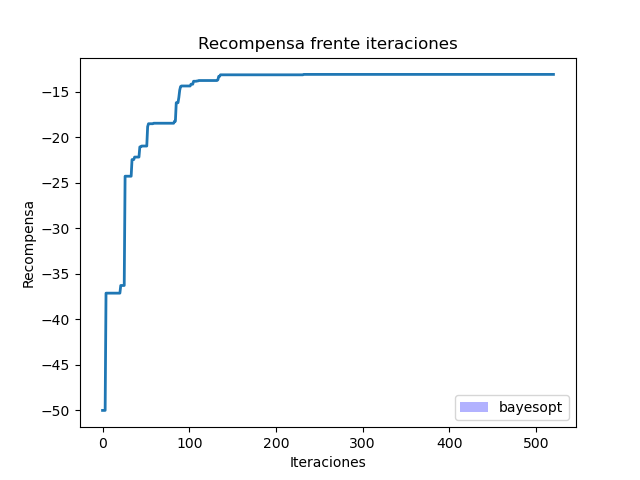
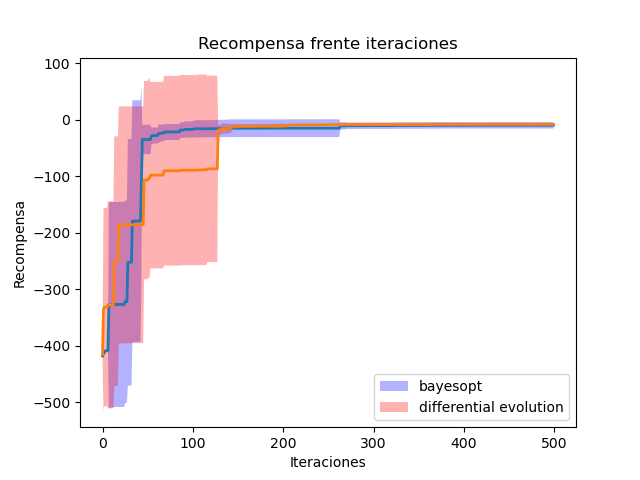
Grafica para la optimizacion de la tarea de pick and place con dos contenedores.

diff --git a/print_graph.py b/print_graph.py
@@ -11,11 +11,11 @@ VARIATION = "2container"
 file1 = TASK_DIR + "listas_bayesopt_" + TASK_NAME + "_" + VARIATION + ".p"
 resultados1 = pickle.load(open(file1, "rb"))
 
-# file2 = TASK_DIR + "listas_difevol_" + TASK_NAME + "_" + VARIATION + ".p"
-# resultados2 = pickle.load(open(file2, "rb"))
+file2 = TASK_DIR + "listas_difevol_" + TASK_NAME + "_" + VARIATION + ".p"
+resultados2 = pickle.load(open(file2, "rb"))
 
-# lista_de_resultados = [resultados1, resultados2]
-lista_de_resultados = [resultados1]
+lista_de_resultados = [resultados1, resultados2]
+# lista_de_resultados = [resultados1]
 color = ['b', 'r']
 etiqueta = ['bayesopt', 'differential evolution']
 
@@ -43,10 +43,10 @@ for resultado in lista_de_resultados:
     n, it = range(res.shape[0]), range(res.shape[1])
     t_limits = sp.t.interval(0.95, n_experimentos) / np.sqrt(n_experimentos)
 
-    # res = res[0:50]
-    # res_mean = res_mean[0:50]
-    # res_std = res_std[0:50]
-    # it = it[0:50]
+    res = res[0:500]
+    res_mean = res_mean[0:500]
+    res_std = res_std[0:500]
+    it = it[0:500]
 
     plt.plot(it, res_mean, linewidth=2, label=None)
     plt.fill(np.concatenate([it, it[::-1]]),
